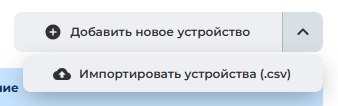
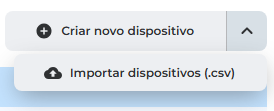
GITBOOK-11: No subject

diff --git a/pt/hashcare/opisanie-vkladok/ustroistva.md b/pt/hashcare/opisanie-vkladok/ustroistva.md
@@ -4,11 +4,11 @@ Para coletar dados por um agente externo, é necessário criar dispositivos com 
 
 ### **Tabela Dispositivos**
 
-• Pesquisa — entrada de caracteres para filtragem por tag do ativo.
+• Procurar — entrada de caracteres para filtragem por tag do ativo.
 
-• Centro de Dados, Quarto, Rack — filtros para seleção de dispositivos em zonas específicas.
+• Centro de Dados, Instalações, Rack — filtros para seleção de dispositivos em zonas específicas.
 
-• Adicionar dispositivo — botão para criação.
+• Criar novo dispositivo — botão para criação.
 
 ### **Campos da tabela**
 
@@ -22,7 +22,7 @@ Para coletar dados por um agente externo, é necessário criar dispositivos com 
 
 🔴 Círculo vermelho — hashrate igual a 0 ou não definido.
 
-• Nome do trabalhador — nome do pool e do dispositivo (determinado pelo agente ou manualmente).
+• Worker Name — nome do pool e do dispositivo (determinado pelo agente ou manualmente).
 
 • Endereço IP — determinado automaticamente ou definido manualmente.
 
@@ -30,21 +30,21 @@ Para coletar dados por um agente externo, é necessário criar dispositivos com 
 
 • Localização — Centro de Dados / Quarto / Rack (links para os objetos).
 
-• Edição — botão de configuração de parâmetros.
+• Alteração — botão de configuração de parâmetros.
 
-<figure><img src="../../.gitbook/assets/image (1).png" alt=""><figcaption></figcaption></figure>
+<figure><img src="../../.gitbook/assets/image.png" alt=""><figcaption></figcaption></figure>
 
 ## **Criação de dispositivo via formulário**
 
 1\. Acesse o menu **Dispositivos**.
 
-2\. Clique no botão **Adicionar novo dispositivo**.
+2\. Clique no botão **Criar novo dispositivo**.
 
 3\. Na janela aberta, insira os seguintes dados:
 
 • **Tipo de dispositivo** — modelo (menu suspenso com função de pesquisa). _Obrigatório._
 
-• **Tag do ativo** — nome único do dispositivo no sistema Hashcare. _Obrigatório._
+• **Etiqueta de ativo** — nome único do dispositivo no sistema Hashcare. _Obrigatório._
 
 • **Número de série** — _Obrigatório._
 
@@ -58,7 +58,7 @@ Para coletar dados por um agente externo, é necessário criar dispositivos com 
 * Não pode ser maior que o número máximo de prateleiras do rack. _Erro: “error.codes.rack\_exceed\_max\_size”._
 * Deve ser apenas numérico. _Erro: “Formato incorreto”._
 
-• **Número do espaço** — número do espaço disponível na prateleira.
+• **Número do local** — número do espaço disponível na prateleira.
 
 * Não pode ser igual a 0. _Erro: “Deve ser maior ou igual a 1”._
 * Não pode ser maior que o número de espaços na prateleira.
@@ -68,7 +68,7 @@ Para coletar dados por um agente externo, é necessário criar dispositivos com 
 
 • **Nome do trabalhador do pool** — nome do dispositivo no pool. _Obrigatório._
 
-• **Nome do pool** — nome do pool. _Obrigatório._
+• **Nome da conta do pool** — nome do pool. _Obrigatório._
 
 • **Rack** — seleção entre racks existentes. _Obrigatório._
 
@@ -76,16 +76,18 @@ Para coletar dados por um agente externo, é necessário criar dispositivos com 
 
 4\. Clique em **Criar**.
 
-<figure><img src="../../.gitbook/assets/image (1) (1).png" alt="" width="449"><figcaption></figcaption></figure>
+<figure><img src="../../.gitbook/assets/image (1).png" alt="" width="448"><figcaption></figcaption></figure>
 
 ## **Importação de dispositivos via lista** <a href="#importacao-de-dispositivos-via-lista" id="importacao-de-dispositivos-via-lista"></a>
 
 1. Acesse o menu **Dispositivos**.
-2. Escolha a opção no menu suspenso.
+2. Escolha a opção no menu suspenso **Importar dispositivos (.csv)**.
 3. Selecione um arquivo .csv no disco rígido.
 4. Após o upload bem-sucedido, a mensagem “Arquivo carregado com sucesso” será exibida.
 
-<figure><img src="../../.gitbook/assets/image (3).png" alt=""><figcaption></figcaption></figure>
+<figure><img src="../../.gitbook/assets/image (2).png" alt=""><figcaption></figcaption></figure>
+
+<figure><img src="../../.gitbook/assets/image (3) (1).png" alt=""><figcaption></figcaption></figure>
 
 **Exemplo de tabela CSV**
 
@@ -95,7 +97,7 @@ Para coletar dados por um agente externo, é necessário criar dispositivos com 
 
 1\. Clique no botão (três pontos) ao lado do dispositivo desejado.
 
-2\. Selecione a opção **Editar**.
+2\. Selecione a opção **Alteração**.
 
 _**Parâmetros disponíveis para edição:**_
 

diff --git a/pt/pool/opisanie-vkladok/stranica-pribyl.md b/pt/pool/opisanie-vkladok/stranica-pribyl.md
@@ -4,7 +4,7 @@ Na página “Lucro”, são apresentadas informações sobre a rentabilidade di
 
 • 🔽 **Seleção de pool**: alterne entre os pools usando o menu suspenso no canto superior direito.
 
-<figure><img src="../../.gitbook/assets/image.png" alt=""><figcaption></figcaption></figure>
+<figure><img src="../../.gitbook/assets/image (3).png" alt=""><figcaption></figcaption></figure>
 
 ## **💰 Como o lucro total é calculado?**
 
